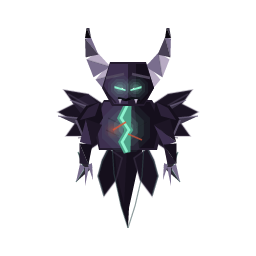
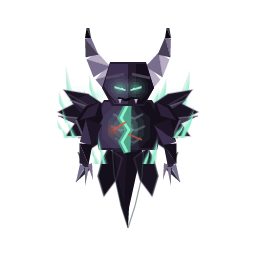
feat(skin): 影魔补上魂火、肋骨与更亮的眼睛（ADR-072 改法二）

diff --git a/crates/zouwu-ui/examples/make_skin_shadowfiend.rs b/crates/zouwu-ui/examples/make_skin_shadowfiend.rs
@@ -218,6 +218,88 @@ fn glow(pm: &mut Pixmap, cx: f32, cy: f32, r: f32, color: Color) {
     }
 }
 
+/// 一根向上收尖的火舌：外焰暗、内焰亮，两片折线套在一起。
+///
+/// `lean` 是火舌往哪边歪——全都直上会像一排栅栏，歪一点才像在烧。
+fn tongue(pm: &mut Pixmap, base_x: f32, base_y: f32, height: f32, width: f32, lean: f32) {
+    let (w, h) = (width, height);
+    // 三层套在一起：外焰宽而半透、中焰偏亮、芯子最亮最窄。
+    // 没有渐变可用，"亮在里面"就是用递减宽度 + 递增不透明度堆出来的。
+    for (k, alpha, spread) in [
+        (1.0f32, 0.20f32, 1.0f32),
+        (0.90, 0.42, 0.66),
+        (0.80, 0.90, 0.34),
+    ] {
+        let box_w = w * spread;
+        let tip = base_y - h * k;
+        let shape = [
+            (base_x - box_w, base_y),
+            (base_x - box_w * 0.55 + lean * 0.25, base_y - h * k * 0.42),
+            (base_x - box_w * 0.80 + lean * 0.55, base_y - h * k * 0.58),
+            (base_x + lean * 0.85, tip),
+            (base_x + box_w * 0.45 + lean * 0.55, base_y - h * k * 0.52),
+            (base_x + box_w * 0.85 + lean * 0.25, base_y - h * k * 0.26),
+            (base_x + box_w, base_y),
+        ];
+        let color = match spread {
+            1.0 => tint(mix(soul_dim(), soul(), 0.15), alpha),
+            0.68 => tint(mix(soul_dim(), soul(), 0.55), alpha),
+            _ => tint(soul(), alpha),
+        };
+        fill(pm, &shape, color);
+    }
+}
+
+/// 一簇火：中间最高、两边依次矮下去。单根火舌看起来像根尖刺，三根挤在一起才有"烧"的感觉。
+/// 一簇火：中间最高、两边各一根矮的，彼此留出缝。
+///
+/// 单根火舌像根尖刺，三根挤在一起又会因为外焰半透 alpha 叠加变成一整块绿板
+/// （在 2 倍尺寸下看起来像一对绿翅膀）。所以只给两根矮的、并且拉开距离。
+fn cluster(pm: &mut Pixmap, x: f32, y: f32, height: f32, width: f32, lean: f32) {
+    for (k, dx) in [(1.0f32, 0.0f32), (0.55, -1.20)] {
+        tongue(
+            pm,
+            x + dx * width,
+            y,
+            height * k,
+            width * (0.40 + 0.26 * k),
+            lean * (0.6 + 0.5 * k),
+        );
+    }
+}
+
+/// 背后那一大片魂火：从肩后往上窜。
+///
+/// 影魔的辨识度一半在角、一半在"他整个人是烧着的"。第一版一点火都没有，
+/// 所以像只蝙蝠状的黑色骑士。这一层画在身体之前，火苗从肩后透出来。
+fn flames(pm: &mut Pixmap) {
+    for (x, y, h, w, lean, glow_r) in [
+        // 肩外侧：大半根火苗在轮廓外边，才能对着背景读成火；
+        // 画在轮廓里面会变成一块半透的绿板。
+        (78.0f32, 120.0f32, 54.0f32, 8.0f32, -13.0f32, 16.0f32),
+        (178.0, 120.0, 50.0, 8.0, 13.0, 16.0),
+        (96.0, 108.0, 34.0, 5.5, -7.0, 10.0),
+        (160.0, 108.0, 30.0, 5.5, 7.0, 10.0),
+    ] {
+        glow(pm, x, y - h * 0.35, glow_r, soul());
+        cluster(pm, x, y, h, w, lean);
+    }
+}
+
+/// 贴在身上的火：腰侧与烟根。画在身体之后，所以是"从身体里冒出来"的。
+fn flares(pm: &mut Pixmap) {
+    for (x, y, h, w, lean) in [
+        // 这两簇画在身体之后面（ flares 最后调），所以它们压在肩甲外缘上，
+        // 看起来是"火苗从身上舔出来"——全部画在背后会变成一对绿翅膀。
+        (74.0f32, 138.0f32, 34.0f32, 6.0f32, -13.0f32),
+        (182.0, 138.0, 32.0, 6.0, 13.0),
+        (104.0, 164.0, 30.0, 6.0, -6.0),
+        (152.0, 164.0, 28.0, 6.0, 6.0),
+    ] {
+        cluster(pm, x, y, h, w, lean);
+    }
+}
+
 /// 破烂的膜翼：从肩后向外摊开，边缘全是锯齿。
 ///
 /// 影魔没有翅膀——这是他自己那层"披风状的皮"。放在最底下当背面，
@@ -386,11 +468,34 @@ fn torso(pm: &mut Pixmap) {
         ],
         hide_dark(),
     );
-    // 肋：三道短折痕，位置错开，别排成梯子。
-    let rib = tint(soot(), 0.30);
-    line(pm, &[(108.0, 118.0), (120.0, 124.0)], rib, 1.4);
-    line(pm, &[(106.0, 130.0), (119.0, 136.0)], rib, 1.4);
-    line(pm, &[(147.0, 122.0), (136.0, 128.0)], rib, 1.2);
+    // 肋骨：三道骨色的折线，从胸骨往两侧包回去。中间让裂缝透出来。
+    for (y, half, alpha) in [
+        (114.0f32, 15.0f32, 0.55f32),
+        (126.0, 17.0, 0.5),
+        (138.0, 13.0, 0.40),
+    ] {
+        let rib = tint(bone_dark(), alpha);
+        line(
+            pm,
+            &[
+                (128.0 - half, y),
+                (128.0 - half * 0.45, y + 4.5),
+                (128.0, y + 2.5),
+            ],
+            rib,
+            2.2,
+        );
+        line(
+            pm,
+            &[
+                (128.0 + half, y),
+                (128.0 + half * 0.45, y + 4.5),
+                (128.0, y + 2.5),
+            ],
+            rib,
+            2.2,
+        );
+    }
 }
 
 /// 胸口的裂缝：一条折来折去的竖缝，里面是魂火。
@@ -616,6 +721,7 @@ fn horns(pm: &mut Pixmap) {
 
 fn body() -> Pixmap {
     let mut pm = canvas();
+    flames(&mut pm);
     wings(&mut pm);
     smoke(&mut pm);
     torso(&mut pm);
@@ -625,6 +731,7 @@ fn body() -> Pixmap {
     horns(&mut pm);
     skull(&mut pm);
     eyes(&mut pm);
+    flares(&mut pm);
     pm
 }
 

diff --git a/README.md b/README.md
@@ -78,9 +78,9 @@ that only write a log line, that was a deliberate cull.
   hovering around him) and 剑圣 (a masked swordsman: an ivory mask down to two ember-lit eye
   slits, horns sweeping out from the temples, crimson coat with a gold obi, a katana slanting
   across the body, embers drifting around him), and 影魔 (a near-black demon: bone horns
-  curving up, a soul-green crack down the chest and two angry slit eyes, tattered membranes on
-  the shoulders, the lower body tapering into three tongues of smoke with soul-fire motes
-  drifting around). **Right-click the pet** for a quick skin list;
+  curving up, a soul-green crack down the chest and two angry slit eyes, a bone ribcage, tattered
+  membranes on the shoulders, soul-fire licking up along the flanks, the lower body tapering
+  into three tongues of smoke). **Right-click the pet** for a quick skin list;
   the current one is outlined.
 - Chinese / English with Fluent, switchable at runtime; `language = "auto"` follows the system.
 - UI text can follow **the Windows UI font** (Settings → Appearance). Off by default: an

diff --git a/README.zh-CN.md b/README.zh-CN.md
@@ -73,7 +73,7 @@
   握着宝石法杖、身边浮着几片碎晶）、剑圣（一个戴面具的武士：象牙面具只留两道余烬橙的
   眼缝、双角从太阳穴往外挑、绯红外袍配金腰带、长刀斜劈过身前、身边浮着火星）、影魔
   （一只近黑的恶魔：骨色双角向上弯、胸口一道灵魂绿的裂缝、两道怒目的细眼缝，
-  肩上是破烂的膜翼与骨刺，下半身收成三瓣往上飘的烟，身边浮着魂火与余烬）。
+  肩上是破烂的膜翼与骨刺，身体两侧然着灵魂绿的火，胸腔有骨色肋骨，下半身收成三瓣往上飘的烟）。
   右键小兽即可切换。
 - 中文 / 英文（Fluent），运行时切换无需重启；`language = "auto"` 跟随系统。
 - 界面字体也能**跟随 Windows 的界面字体**（设置 → 外观）。默认关着：英文系统上那个

diff --git a/CHANGELOG.md b/CHANGELOG.md
@@ -7,12 +7,13 @@
 
 （暂无）
 
-## 1.0.9 · 2026-11-10
+## 1.0.10 · 2026-11-10
 
 ### 新增
 - **官方第七套皮肤「影魔」**（`zouwu-shadowfiend`）：近黑的躯体只留三处发亮——骨色的双角、胸口的灵魂绿裂缝、两道绿眼缝；
   上宽下窄的倒三角轮廓（破烂膜翼 + 肩甲），下半身收成三瓣往上飘的烟；
-  还带着眨眼图层与浮动的魂火/余烬。右键小兽即可切换（ADR-072）。
+  **身上然着灵魂绿的火》**（肩外侧与腰侧各两簇、层层变亮的火舌），胸腔有骨色肋骨，
+  另带眨眼图层与浮动的魂火/余烬。右键小兽即可切换（ADR-072）。
 
 ## 1.0.8 · 2026-11-10
 
